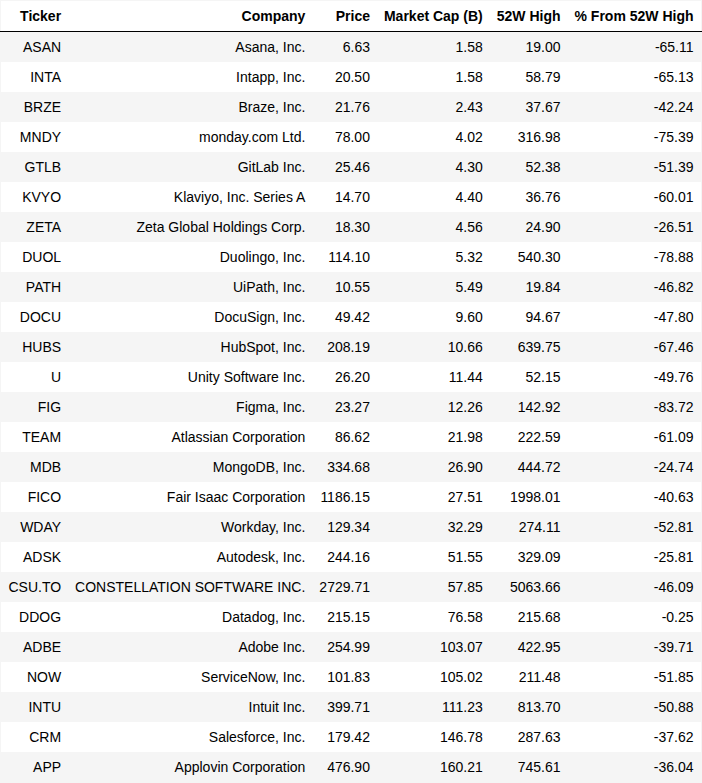
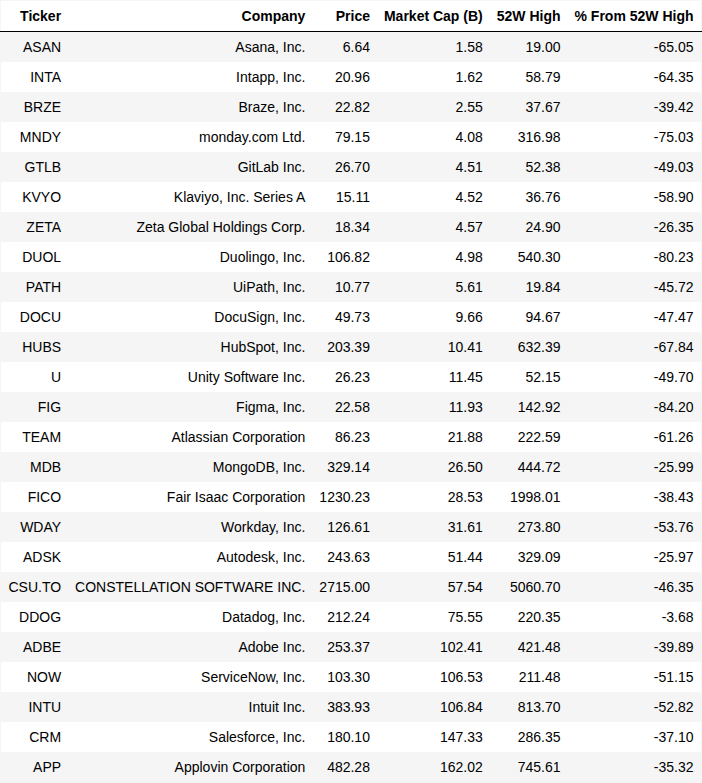
Update daily stock snapshot (scheduled)

diff --git a/sw_stock_tracker/recommendations.md b/sw_stock_tracker/recommendations.md
@@ -1,5 +1,16 @@
 # Daily Stock Recommendations
 
+## 2026-05-21 08:29 UTC
+
+BUY
+- ASAN (Asana, Inc.) ($6.64): Strong positive sentiment and significant upside potential with a low market cap.
+- BRZE (Braze, Inc.) ($22.82): Positive sentiment and recent momentum make it an attractive buy.
+- PATH (UiPath, Inc.) ($10.77): Positive sentiment and lower market cap suggest good upside potential.
+
+SHORT SELL
+- INTA (Intapp, Inc.) ($20.96): Negative sentiment and a high percentage from the 52-week high indicate potential for further decline.
+- TEAM (Atlassian Corporation) ($86.23): Negative sentiment and significant distance from the 52-week high suggest weakness.
+
 ## 2026-05-20 08:22 UTC
 
 BUY
